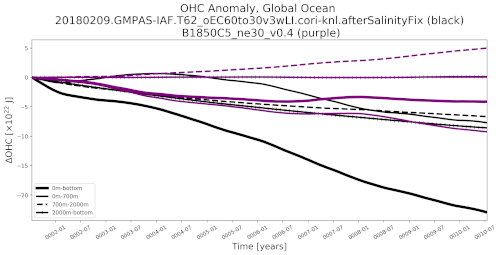
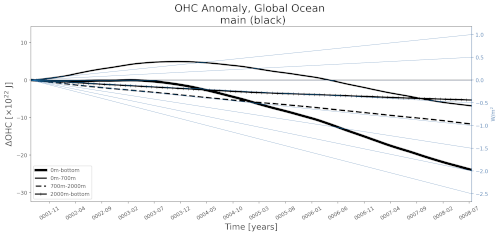
Update documentation of OHC anomaly time series

diff --git a/docs/tasks/timeSeriesOHCAnomaly.rst b/docs/tasks/timeSeriesOHCAnomaly.rst
@@ -5,7 +5,7 @@ timeSeriesOHCAnomaly
 
 An analysis task for plotting a Hovmoller plot (time and depth axes) and
 depth-integrated time series of the anomaly in ocean heat content (OHC)
-from a reference year (usully the first year of the simulation).
+from a reference year (usually the first year of the simulation).
 
 Component and Tags::
 
@@ -77,7 +77,7 @@ meters) that separate the upper, middle and lower regions of the ocean, e.g.::
 
   depths = [700, 2000]
 
-indictes that OHC will be integrated from 0 to 700 m, 700 to 2000 m,
+indicates that OHC will be integrated from 0 to 700 m, 700 to 2000 m,
 and 2000 m to the ocean floor (as well as from 0 to the ocean floor).
 
 The OHC can be compared with results from a reference v0 simulation.  If
@@ -86,6 +86,11 @@ depth integrated time series will be read in with a file prefix given by
 ``preprocessedFilePrefix`` and a field prefix given by
 ``preprocessedFieldPrefix``.  Generally, these options should not be altered
 except of debugging purposes.
+
+Recently, a right-hand axis and an associated set of lines has been added to the
+OHC anomaly time series.  This axis and these lines shows the equivalent
+top-of-atmosphere energy flux (:math:`W/m^2`) that the ocean heat anomaly would
+induce.
 
 For more details on other config options, see:
  * :ref:`config_regions`
